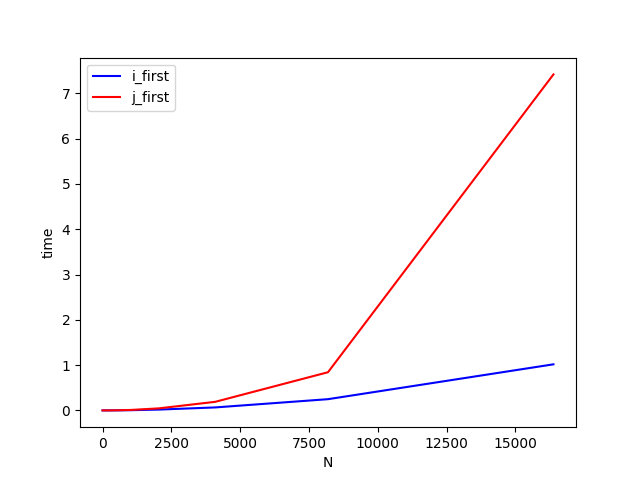
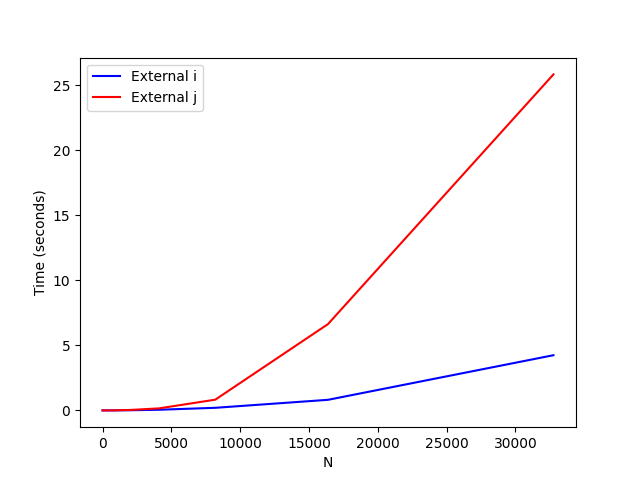
adding new data files, new plots and final version of C and Fortran code

diff --git a/exercise1/runner.py b/exercise1/runner.py
@@ -3,39 +3,58 @@ import pandas as pd
 import matplotlib.pyplot as plt
 
 
-def process_c_resolution() -> None:
-    data_file_path = "./c_resolution/data.csv"
-    data_file = open(data_file_path, "a")
-    subprocess.call(
-        "gcc -Wall -o ./c_resolution/resolution ./c_resolution/resolution.c", shell=True
+def process(language: str, compiler_call: str) -> str:
+    data_file_path = f"./{language}_resolution/data.csv"
+    # create empty data file
+    with open(data_file_path, "w") as data_file:
+        data_file.write("")
+        data_file.close()
+
+    compile = subprocess.call(
+        compiler_call,
+        shell=True,
     )
-    size = 1
-    while size <= 36000:
-        ret_code = subprocess.call(
-            ["./c_resolution/resolution", str(size)], stdout=data_file
-        )
-        size = size * 2
-    data_file.close()
+
+    if compile != 0:
+        raise RuntimeError(f"Couldnt compile {language} file")
+
+    with open(data_file_path, "a") as data_file:
+        size = 1
+        ret_code = 0
+        while ret_code == 0:
+            ret_code = subprocess.call(
+                [f"./{language}_resolution/resolution", str(size)], stdout=data_file
+            )
+            size = size * 2
     return data_file_path
 
 
-def generate_graph(file_path: str, plot_dest: str):
-    dataframe = pd.read_csv(file_path)
-    plt.plot("size", "i_first", data=dataframe, color="blue")
-    plt.plot("size", "j_first", data=dataframe, color="red")
+def generate_graph(file_path: str, plot_dest: str) -> None:
+    dataframe = pd.read_csv(file_path, delimiter=",")
+    dataframe.columns = ["Matrix Dimension", "External i", "External j"]
+    plt.plot("Matrix Dimension", "External i", data=dataframe, color="blue")
+    plt.plot("Matrix Dimension", "External j", data=dataframe, color="red")
     plt.xlabel("N")
-    plt.ylabel("time")
+    plt.ylabel("Time (seconds)")
     plt.legend()
     plt.savefig(plot_dest)
 
 
 def main():
     # First, run C solution
-    data_file_path = process_c_resolution()
+    data_file_path = process(
+        language="c",
+        compiler_call="gcc -Wall -o ./c_resolution/resolution ./c_resolution/resolution.c",
+    )
+    plt.figure(0)
     generate_graph(data_file_path, "./plots/c_resolution.png")
-    # Run Fortran solution
-    # data_file_path = process_fortran_resolution()
-    # generate_graph(data_file_path)
+    # Then, run FORTRAN solution
+    data_file_path = process(
+        language="fortran",
+        compiler_call="gfortran ./fortran_resolution/resolution.f95 -o ./fortran_resolution/resolution",
+    )
+    plt.figure(1)
+    generate_graph(data_file_path, "./plots/fortran_resolution.png")
 
 
 if __name__ == "__main__":

diff --git a/exercise1/c_resolution/resolution.c b/exercise1/c_resolution/resolution.c
@@ -70,6 +70,6 @@ int main(int argc, char *argv[])
     after = clock();
     free(result_vector);
     double difference_ji = ((double)(after - before)) / CLOCKS_PER_SEC;
-    printf("\n%d,%.8f,%.8f", number_of_rows, difference_ij, difference_ji);
+    printf("%d,%.8f,%.8f\n", number_of_rows, difference_ij, difference_ji);
     return 0;
 }
